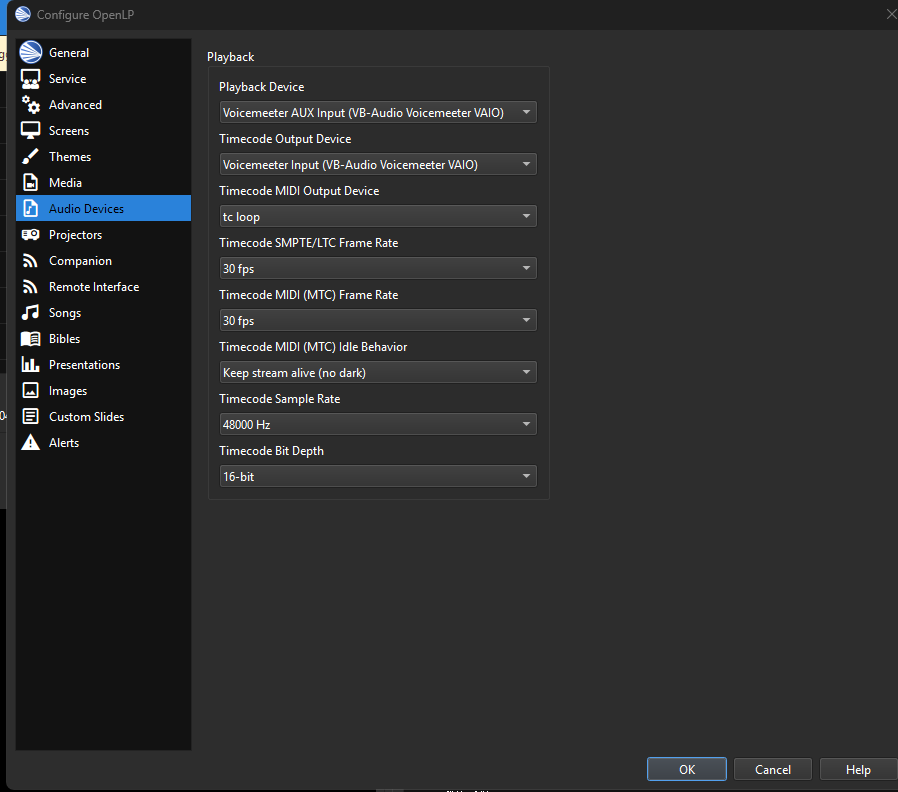
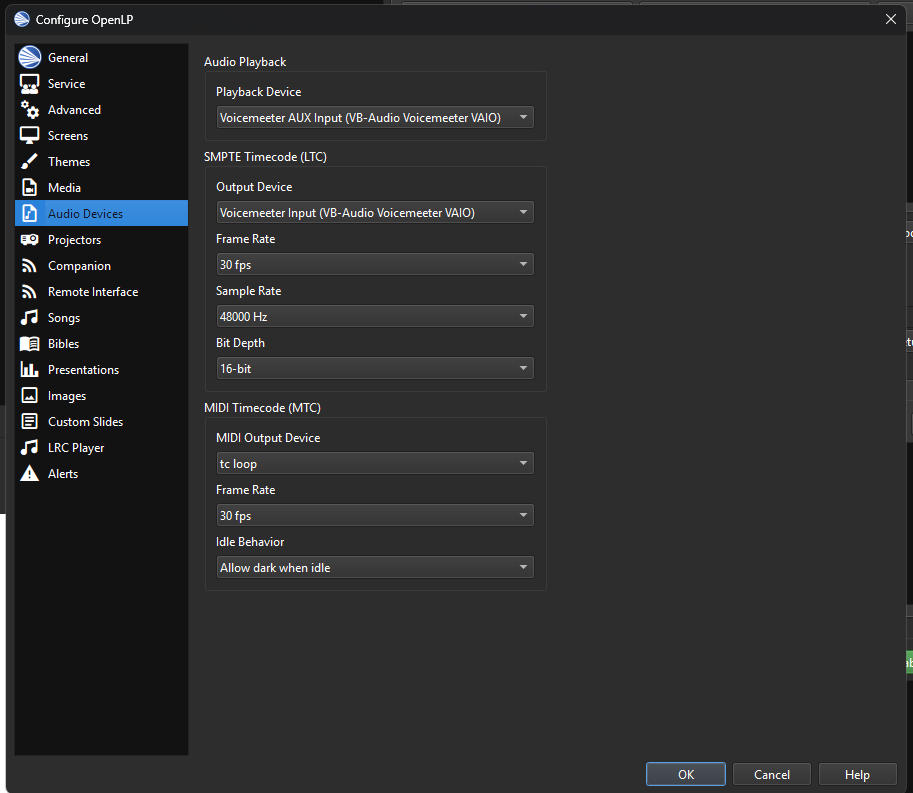
change audio device setting page layout

diff --git a/openlp/core/ui/audiodevicestab.py b/openlp/core/ui/audiodevicestab.py
@@ -59,59 +59,72 @@ class AudioDevicesTab(SettingsTab):
         """
         self.setObjectName('AudioDevicesTab')
         super(AudioDevicesTab, self).setup_ui()
-        self.audio_device_group_box = QtWidgets.QGroupBox(self.left_column)
-        self.audio_device_group_box.setObjectName('audio_device_group_box')
-        self.audio_device_layout = QtWidgets.QVBoxLayout(self.audio_device_group_box)
-        self.audio_device_layout.setObjectName('audio_device_layout')
-        self.audio_output_label = QtWidgets.QLabel(self.audio_device_group_box)
+        self.audio_playback_group_box = QtWidgets.QGroupBox(self.left_column)
+        self.audio_playback_group_box.setObjectName('audio_playback_group_box')
+        self.audio_playback_layout = QtWidgets.QVBoxLayout(self.audio_playback_group_box)
+        self.audio_playback_layout.setObjectName('audio_playback_layout')
+        self.audio_output_label = QtWidgets.QLabel(self.audio_playback_group_box)
         self.audio_output_label.setObjectName('audio_output_label')
-        self.audio_device_layout.addWidget(self.audio_output_label)
-        self.audio_output_combo_box = QtWidgets.QComboBox(self.audio_device_group_box)
+        self.audio_playback_layout.addWidget(self.audio_output_label)
+        self.audio_output_combo_box = QtWidgets.QComboBox(self.audio_playback_group_box)
         self.audio_output_combo_box.setObjectName('audio_output_combo_box')
-        self.audio_device_layout.addWidget(self.audio_output_combo_box)
-        self.timecode_output_label = QtWidgets.QLabel(self.audio_device_group_box)
+        self.audio_playback_layout.addWidget(self.audio_output_combo_box)
+
+        self.smpte_timecode_group_box = QtWidgets.QGroupBox(self.left_column)
+        self.smpte_timecode_group_box.setObjectName('smpte_timecode_group_box')
+        self.smpte_timecode_layout = QtWidgets.QVBoxLayout(self.smpte_timecode_group_box)
+        self.smpte_timecode_layout.setObjectName('smpte_timecode_layout')
+        self.timecode_output_label = QtWidgets.QLabel(self.smpte_timecode_group_box)
         self.timecode_output_label.setObjectName('timecode_output_label')
-        self.audio_device_layout.addWidget(self.timecode_output_label)
-        self.timecode_output_combo_box = QtWidgets.QComboBox(self.audio_device_group_box)
+        self.smpte_timecode_layout.addWidget(self.timecode_output_label)
+        self.timecode_output_combo_box = QtWidgets.QComboBox(self.smpte_timecode_group_box)
         self.timecode_output_combo_box.setObjectName('timecode_output_combo_box')
-        self.audio_device_layout.addWidget(self.timecode_output_combo_box)
-        self.timecode_midi_output_label = QtWidgets.QLabel(self.audio_device_group_box)
-        self.timecode_midi_output_label.setObjectName('timecode_midi_output_label')
-        self.audio_device_layout.addWidget(self.timecode_midi_output_label)
-        self.timecode_midi_output_combo_box = QtWidgets.QComboBox(self.audio_device_group_box)
-        self.timecode_midi_output_combo_box.setObjectName('timecode_midi_output_combo_box')
-        self.audio_device_layout.addWidget(self.timecode_midi_output_combo_box)
-        self.timecode_frame_rate_label = QtWidgets.QLabel(self.audio_device_group_box)
+        self.smpte_timecode_layout.addWidget(self.timecode_output_combo_box)
+        self.timecode_frame_rate_label = QtWidgets.QLabel(self.smpte_timecode_group_box)
         self.timecode_frame_rate_label.setObjectName('timecode_frame_rate_label')
-        self.audio_device_layout.addWidget(self.timecode_frame_rate_label)
-        self.timecode_frame_rate_combo_box = QtWidgets.QComboBox(self.audio_device_group_box)
+        self.smpte_timecode_layout.addWidget(self.timecode_frame_rate_label)
+        self.timecode_frame_rate_combo_box = QtWidgets.QComboBox(self.smpte_timecode_group_box)
         self.timecode_frame_rate_combo_box.setObjectName('timecode_frame_rate_combo_box')
-        self.audio_device_layout.addWidget(self.timecode_frame_rate_combo_box)
-        self.timecode_mtc_frame_rate_label = QtWidgets.QLabel(self.audio_device_group_box)
-        self.timecode_mtc_frame_rate_label.setObjectName('timecode_mtc_frame_rate_label')
-        self.audio_device_layout.addWidget(self.timecode_mtc_frame_rate_label)
-        self.timecode_mtc_frame_rate_combo_box = QtWidgets.QComboBox(self.audio_device_group_box)
-        self.timecode_mtc_frame_rate_combo_box.setObjectName('timecode_mtc_frame_rate_combo_box')
-        self.audio_device_layout.addWidget(self.timecode_mtc_frame_rate_combo_box)
-        self.timecode_mtc_idle_behavior_label = QtWidgets.QLabel(self.audio_device_group_box)
-        self.timecode_mtc_idle_behavior_label.setObjectName('timecode_mtc_idle_behavior_label')
-        self.audio_device_layout.addWidget(self.timecode_mtc_idle_behavior_label)
-        self.timecode_mtc_idle_behavior_combo_box = QtWidgets.QComboBox(self.audio_device_group_box)
-        self.timecode_mtc_idle_behavior_combo_box.setObjectName('timecode_mtc_idle_behavior_combo_box')
-        self.audio_device_layout.addWidget(self.timecode_mtc_idle_behavior_combo_box)
-        self.timecode_sample_rate_label = QtWidgets.QLabel(self.audio_device_group_box)
+        self.smpte_timecode_layout.addWidget(self.timecode_frame_rate_combo_box)
+        self.timecode_sample_rate_label = QtWidgets.QLabel(self.smpte_timecode_group_box)
         self.timecode_sample_rate_label.setObjectName('timecode_sample_rate_label')
-        self.audio_device_layout.addWidget(self.timecode_sample_rate_label)
-        self.timecode_sample_rate_combo_box = QtWidgets.QComboBox(self.audio_device_group_box)
+        self.smpte_timecode_layout.addWidget(self.timecode_sample_rate_label)
+        self.timecode_sample_rate_combo_box = QtWidgets.QComboBox(self.smpte_timecode_group_box)
         self.timecode_sample_rate_combo_box.setObjectName('timecode_sample_rate_combo_box')
-        self.audio_device_layout.addWidget(self.timecode_sample_rate_combo_box)
-        self.timecode_bit_depth_label = QtWidgets.QLabel(self.audio_device_group_box)
+        self.smpte_timecode_layout.addWidget(self.timecode_sample_rate_combo_box)
+        self.timecode_bit_depth_label = QtWidgets.QLabel(self.smpte_timecode_group_box)
         self.timecode_bit_depth_label.setObjectName('timecode_bit_depth_label')
-        self.audio_device_layout.addWidget(self.timecode_bit_depth_label)
-        self.timecode_bit_depth_combo_box = QtWidgets.QComboBox(self.audio_device_group_box)
+        self.smpte_timecode_layout.addWidget(self.timecode_bit_depth_label)
+        self.timecode_bit_depth_combo_box = QtWidgets.QComboBox(self.smpte_timecode_group_box)
         self.timecode_bit_depth_combo_box.setObjectName('timecode_bit_depth_combo_box')
-        self.audio_device_layout.addWidget(self.timecode_bit_depth_combo_box)
-        self.left_layout.addWidget(self.audio_device_group_box)
+        self.smpte_timecode_layout.addWidget(self.timecode_bit_depth_combo_box)
+
+        self.midi_timecode_group_box = QtWidgets.QGroupBox(self.left_column)
+        self.midi_timecode_group_box.setObjectName('midi_timecode_group_box')
+        self.midi_timecode_layout = QtWidgets.QVBoxLayout(self.midi_timecode_group_box)
+        self.midi_timecode_layout.setObjectName('midi_timecode_layout')
+        self.timecode_midi_output_label = QtWidgets.QLabel(self.midi_timecode_group_box)
+        self.timecode_midi_output_label.setObjectName('timecode_midi_output_label')
+        self.midi_timecode_layout.addWidget(self.timecode_midi_output_label)
+        self.timecode_midi_output_combo_box = QtWidgets.QComboBox(self.midi_timecode_group_box)
+        self.timecode_midi_output_combo_box.setObjectName('timecode_midi_output_combo_box')
+        self.midi_timecode_layout.addWidget(self.timecode_midi_output_combo_box)
+        self.timecode_mtc_frame_rate_label = QtWidgets.QLabel(self.midi_timecode_group_box)
+        self.timecode_mtc_frame_rate_label.setObjectName('timecode_mtc_frame_rate_label')
+        self.midi_timecode_layout.addWidget(self.timecode_mtc_frame_rate_label)
+        self.timecode_mtc_frame_rate_combo_box = QtWidgets.QComboBox(self.midi_timecode_group_box)
+        self.timecode_mtc_frame_rate_combo_box.setObjectName('timecode_mtc_frame_rate_combo_box')
+        self.midi_timecode_layout.addWidget(self.timecode_mtc_frame_rate_combo_box)
+        self.timecode_mtc_idle_behavior_label = QtWidgets.QLabel(self.midi_timecode_group_box)
+        self.timecode_mtc_idle_behavior_label.setObjectName('timecode_mtc_idle_behavior_label')
+        self.midi_timecode_layout.addWidget(self.timecode_mtc_idle_behavior_label)
+        self.timecode_mtc_idle_behavior_combo_box = QtWidgets.QComboBox(self.midi_timecode_group_box)
+        self.timecode_mtc_idle_behavior_combo_box.setObjectName('timecode_mtc_idle_behavior_combo_box')
+        self.midi_timecode_layout.addWidget(self.timecode_mtc_idle_behavior_combo_box)
+
+        self.left_layout.addWidget(self.audio_playback_group_box)
+        self.left_layout.addWidget(self.smpte_timecode_group_box)
+        self.left_layout.addWidget(self.midi_timecode_group_box)
         self.left_layout.addStretch()
         self.right_layout.addStretch()
 
@@ -119,15 +132,17 @@ class AudioDevicesTab(SettingsTab):
         """
         Translate the UI on the fly
         """
-        self.audio_device_group_box.setTitle(translate('OpenLP.AudioDevicesTab', 'Playback'))
+        self.audio_playback_group_box.setTitle(translate('OpenLP.AudioDevicesTab', 'Audio Playback'))
         self.audio_output_label.setText(translate('OpenLP.AudioDevicesTab', 'Playback Device'))
-        self.timecode_output_label.setText(translate('OpenLP.AudioDevicesTab', 'Timecode Output Device'))
-        self.timecode_midi_output_label.setText(translate('OpenLP.AudioDevicesTab', 'Timecode MIDI Output Device'))
-        self.timecode_frame_rate_label.setText(translate('OpenLP.AudioDevicesTab', 'Timecode SMPTE/LTC Frame Rate'))
-        self.timecode_mtc_frame_rate_label.setText(translate('OpenLP.AudioDevicesTab', 'Timecode MIDI (MTC) Frame Rate'))
-        self.timecode_mtc_idle_behavior_label.setText(translate('OpenLP.AudioDevicesTab', 'Timecode MIDI (MTC) Idle Behavior'))
-        self.timecode_sample_rate_label.setText(translate('OpenLP.AudioDevicesTab', 'Timecode Sample Rate'))
-        self.timecode_bit_depth_label.setText(translate('OpenLP.AudioDevicesTab', 'Timecode Bit Depth'))
+        self.smpte_timecode_group_box.setTitle(translate('OpenLP.AudioDevicesTab', 'SMPTE Timecode (LTC)'))
+        self.timecode_output_label.setText(translate('OpenLP.AudioDevicesTab', 'Output Device'))
+        self.timecode_frame_rate_label.setText(translate('OpenLP.AudioDevicesTab', 'Frame Rate'))
+        self.timecode_sample_rate_label.setText(translate('OpenLP.AudioDevicesTab', 'Sample Rate'))
+        self.timecode_bit_depth_label.setText(translate('OpenLP.AudioDevicesTab', 'Bit Depth'))
+        self.midi_timecode_group_box.setTitle(translate('OpenLP.AudioDevicesTab', 'MIDI Timecode (MTC)'))
+        self.timecode_midi_output_label.setText(translate('OpenLP.AudioDevicesTab', 'MIDI Output Device'))
+        self.timecode_mtc_frame_rate_label.setText(translate('OpenLP.AudioDevicesTab', 'Frame Rate'))
+        self.timecode_mtc_idle_behavior_label.setText(translate('OpenLP.AudioDevicesTab', 'Idle Behavior'))
 
     def _load_audio_outputs(self):
         self.audio_output_combo_box.clear()
